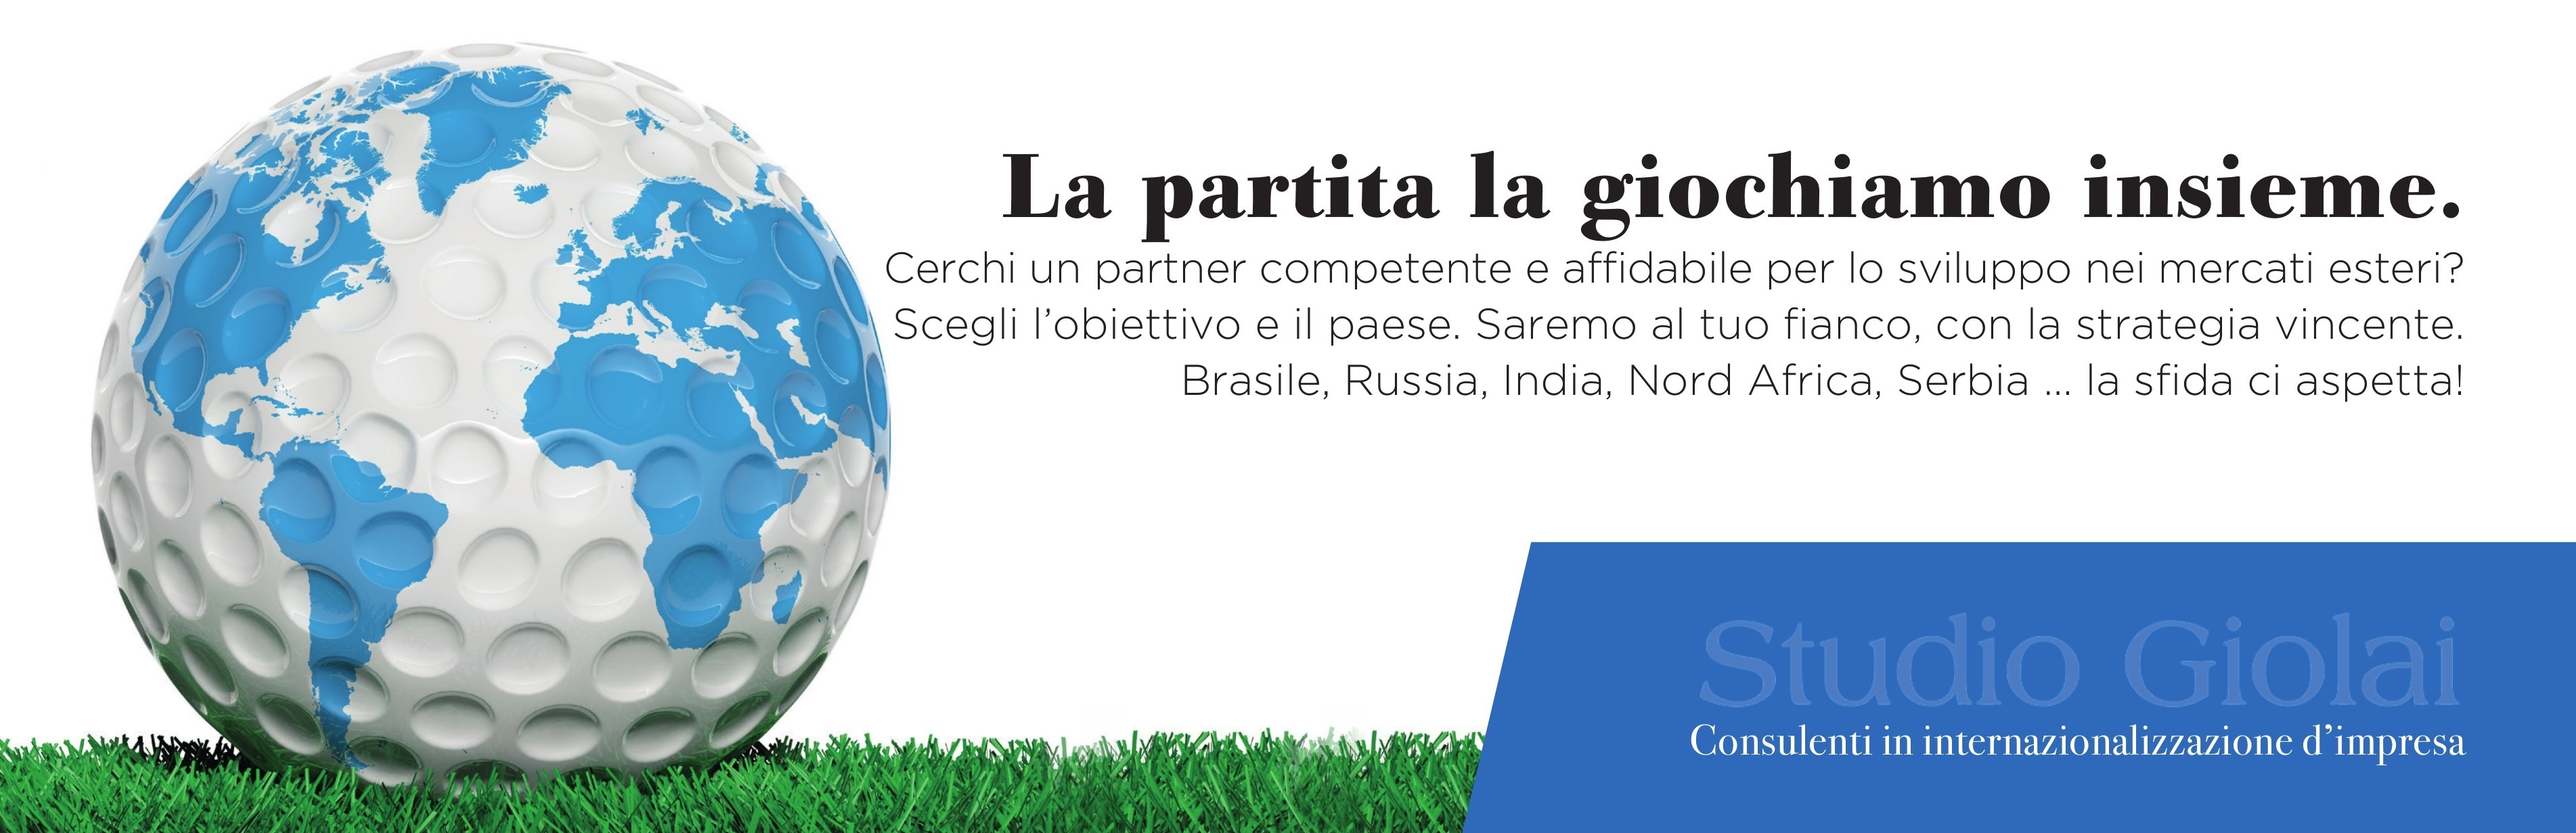
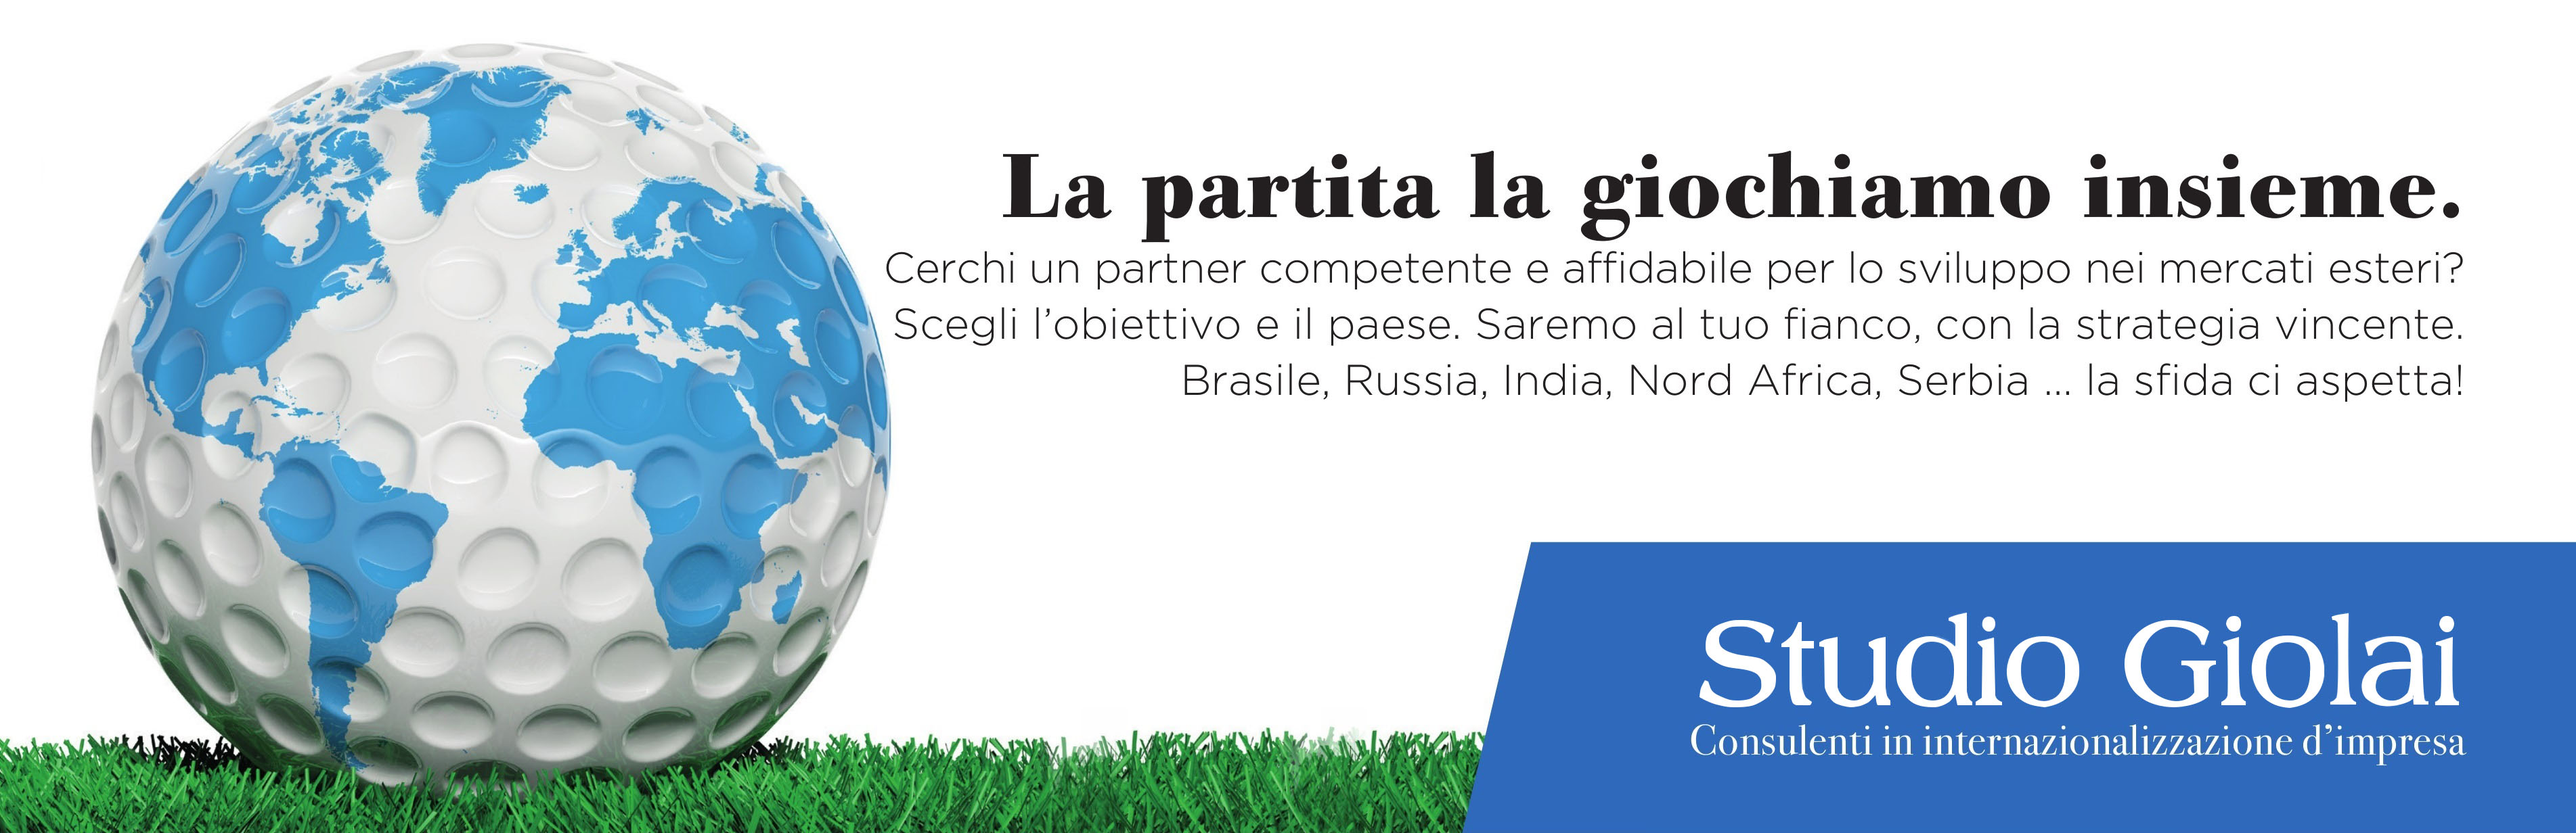
Almost finished

Changed region(s): [[0.6511, 0.7403, 0.9611, 0.8636]]

diff --git a/index.html b/index.html
@@ -27,7 +27,7 @@
         <nav class="navbar static-top" id="logoPrincipaleWrapper">
             <div class="animated fadeInRight container-fluid" >
                 <a href="https://www.google.com">
-                    <img class="img-fluid" id="logoPrincipale" alt= "Footer Responsive" src="img/LogoGiolai.jpg"  />
+                    <img class="img-fluid" id="logoPrincipale" alt= "Footer Responsive" src="img/LogoGiolai.png"  />
                 </a>
             </div>
         </nav>

diff --git a/css/normalize.css b/css/normalize.css
@@ -23,7 +23,11 @@ html {
  */
 
 body {
-  margin: 0;
+
+    width:100%;
+    height: 100%;
+  margin: 0px;
+    padding: 0px;
   font-size: 1rem;
   font-weight: 400;
   line-height: 1.5;
